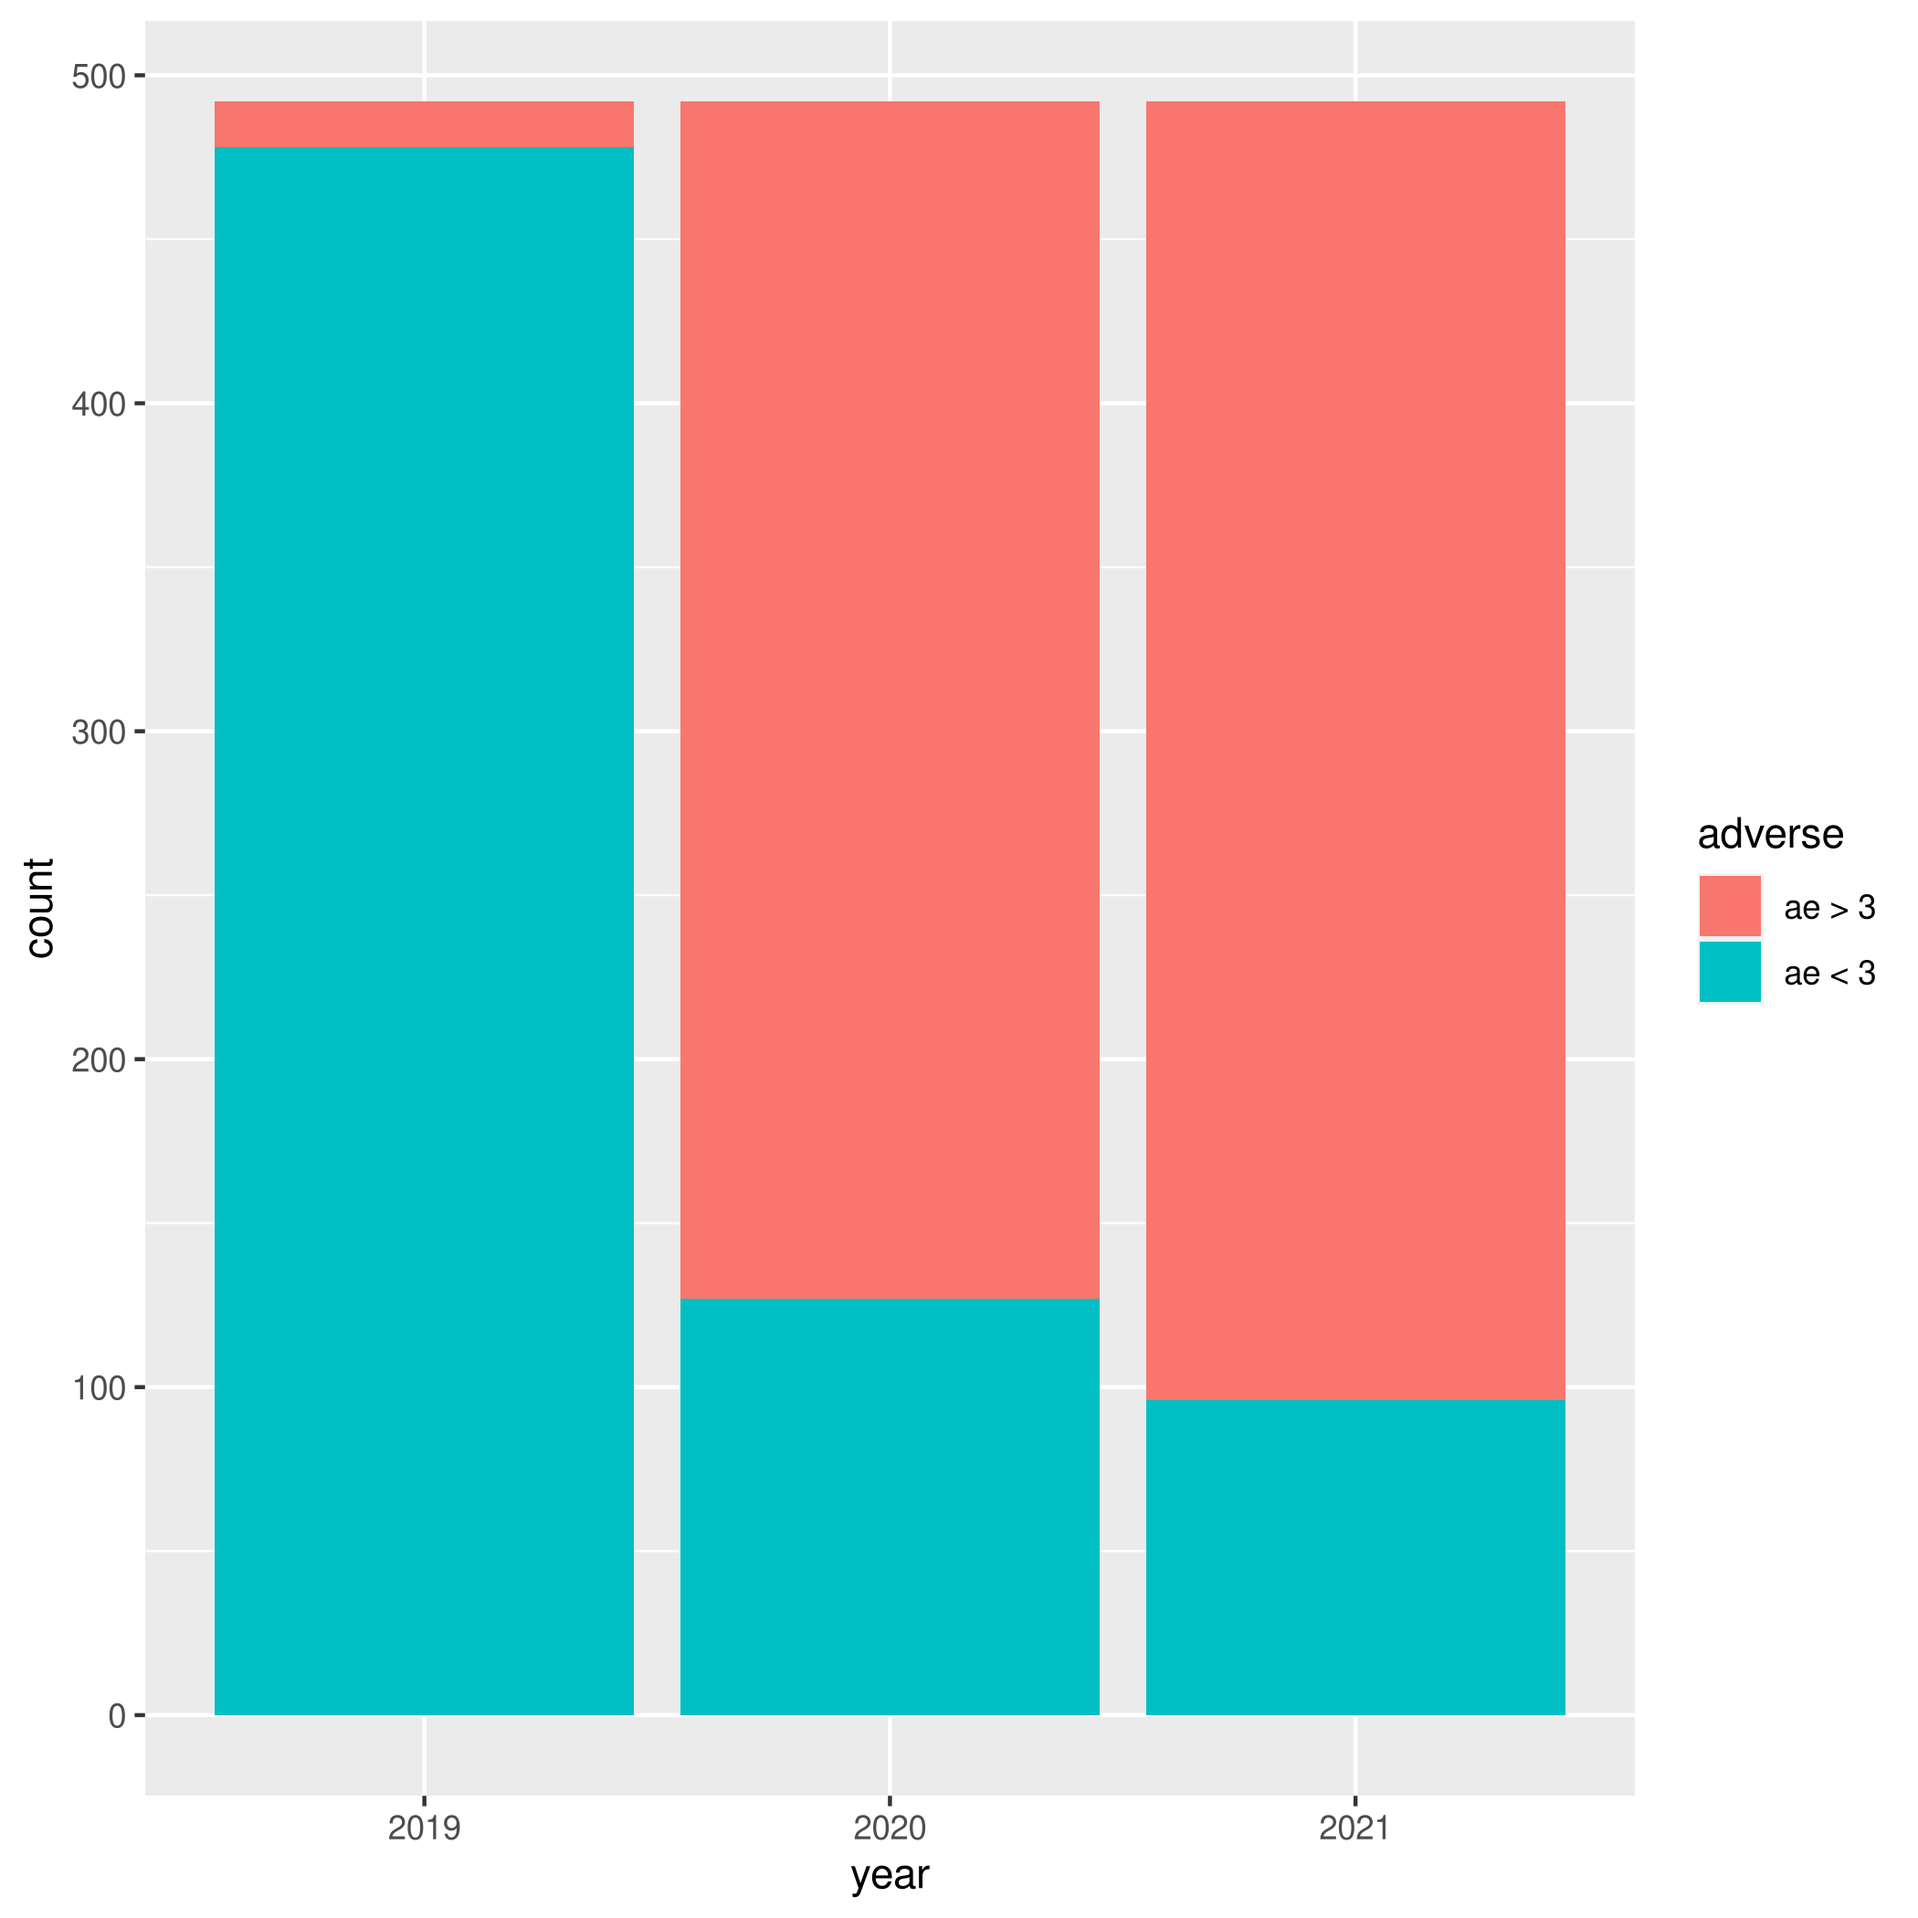
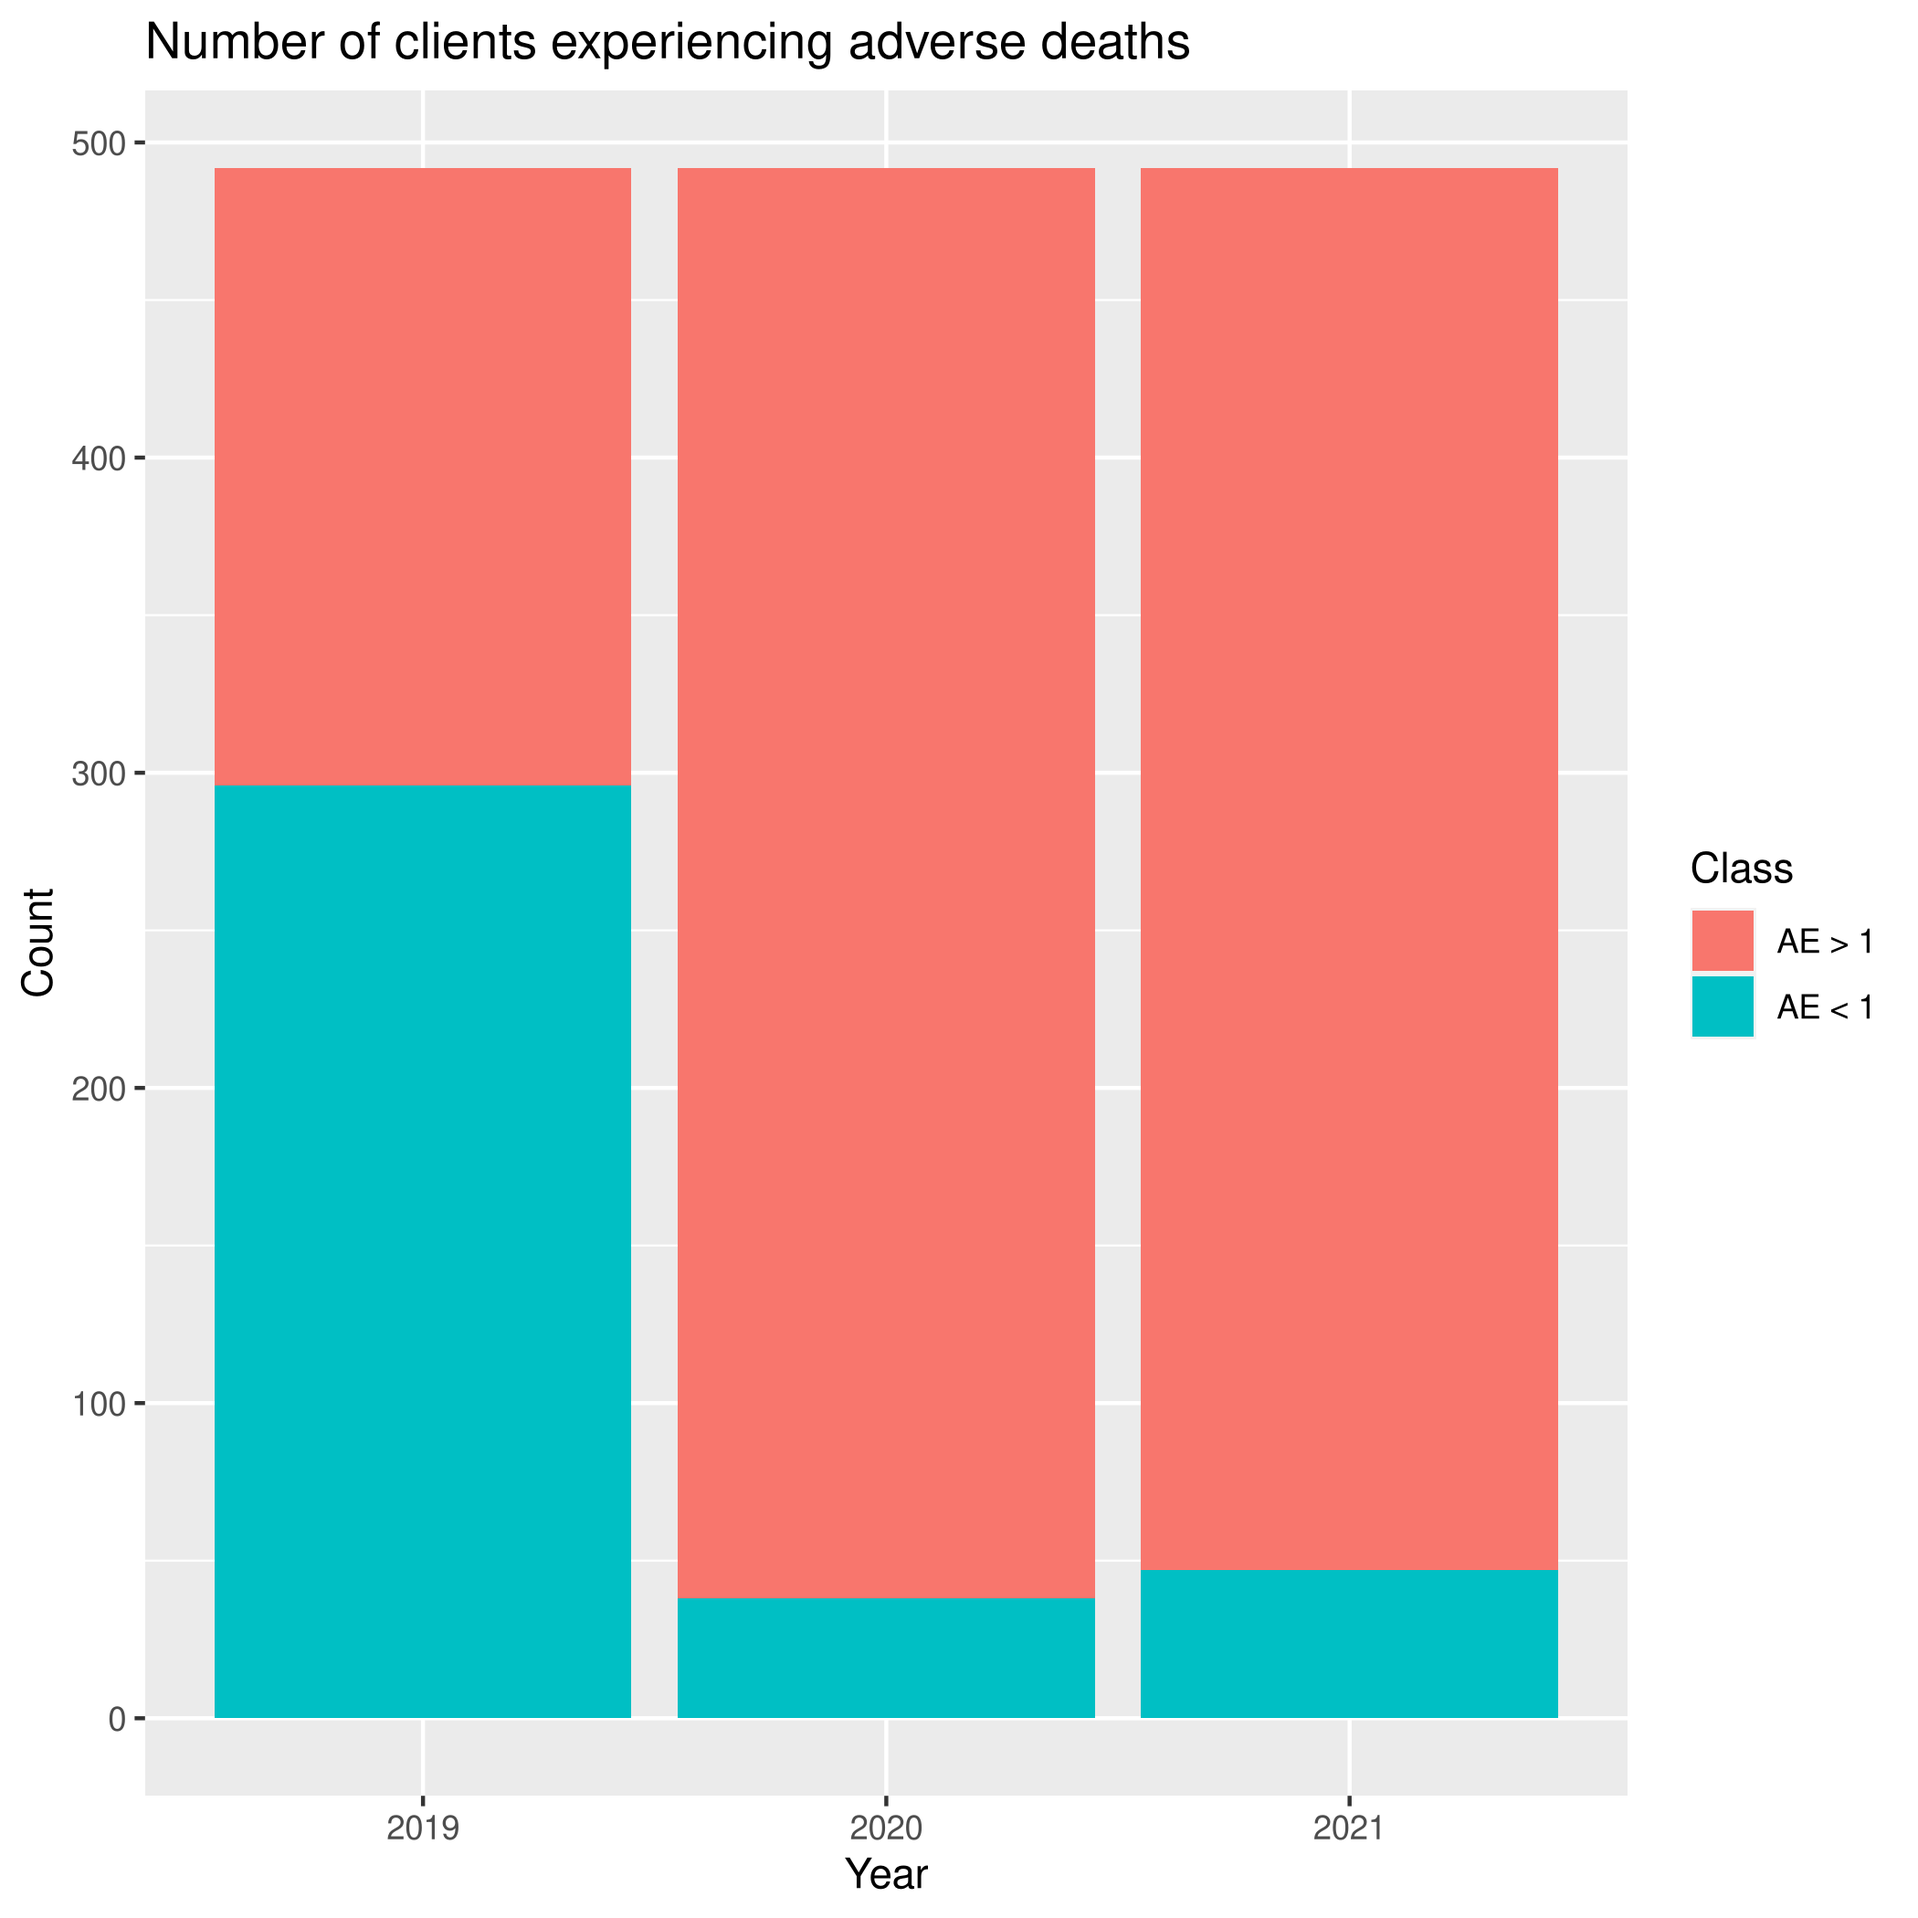
beeswarmplot

diff --git a/presentation_2.md b/presentation_2.md
@@ -16,6 +16,7 @@ library(feather)
 library(magrittr)
 library(skimr)
 library(vip)
+library(ggbeeswarm)
 per <- read_feather("data/simulation_data/all_persons.feather")
 
 clients <-
@@ -145,17 +146,38 @@ Table: Data summary
 |density         |         0|             1|         0.00|         0.00|       0.00|         0.00|         0.00|         0.00| 3.000000e-02|▇▁▁▁▁ |
 
 ## How many were actually adverse?
+We count how many have AE > 1 in each year
 
 ```r
 clients %>%
   transmute(
-    `2019` = ae_2019 > 3,
-    `2020` = ae_2020 > 3,
-    `2021` = ae_2021 > 3) %>%
+    `2019` = ae_2019 > 1,
+    `2020` = ae_2020 > 1,
+    `2021` = ae_2021 > 1) %>%
   pivot_longer(`2019`:`2021`, names_to = "year", values_to = "adverse") %>%
-  mutate(adverse = fct_rev(fct_recode(factor(adverse), `ae > 3` = "TRUE", `ae < 3` = "FALSE"))) %>%
-  ggplot(aes(x = year, fill = adverse)) + geom_bar()
+  mutate(adverse = fct_rev(fct_recode(factor(adverse), `AE > 1` = "TRUE", `AE < 1` = "FALSE"))) %>%
+  ggplot(aes(x = year, fill = adverse)) + geom_bar() +
+  labs( x = "Year", y = "Count", fill = "Class", title = "Number of clients experiencing adverse deaths")
 ```
 
 ![plot of chunk unnamed-chunk-3](figures/pres-unnamed-chunk-3-1.png)
+
+Changes in actual claims from 2019 to 2021. Here each point is a company. Note the y-axis is logarithmic!!!
+
+```r
+clients %>%
+  select(actual_2019, actual_2020, actual_2021) %>%
+  pivot_longer(actual_2019:actual_2021, names_to = "Year", values_to = "Claims") %>%
+  mutate(Year = str_sub(Year, 8)) %>%
+  filter(Claims > 0) %>%
+  ggplot(aes(Year, log(Claims), color = Year)) + geom_beeswarm(priority = "random") +
+  guides(color = FALSE) + labs(title = "Size of claims")
+```
+
+```
+## Warning: `guides(<scale> = FALSE)` is deprecated. Please use
+## `guides(<scale> = "none")` instead.
+```
+
+![plot of chunk unnamed-chunk-4](figures/pres-unnamed-chunk-4-1.png)
 
